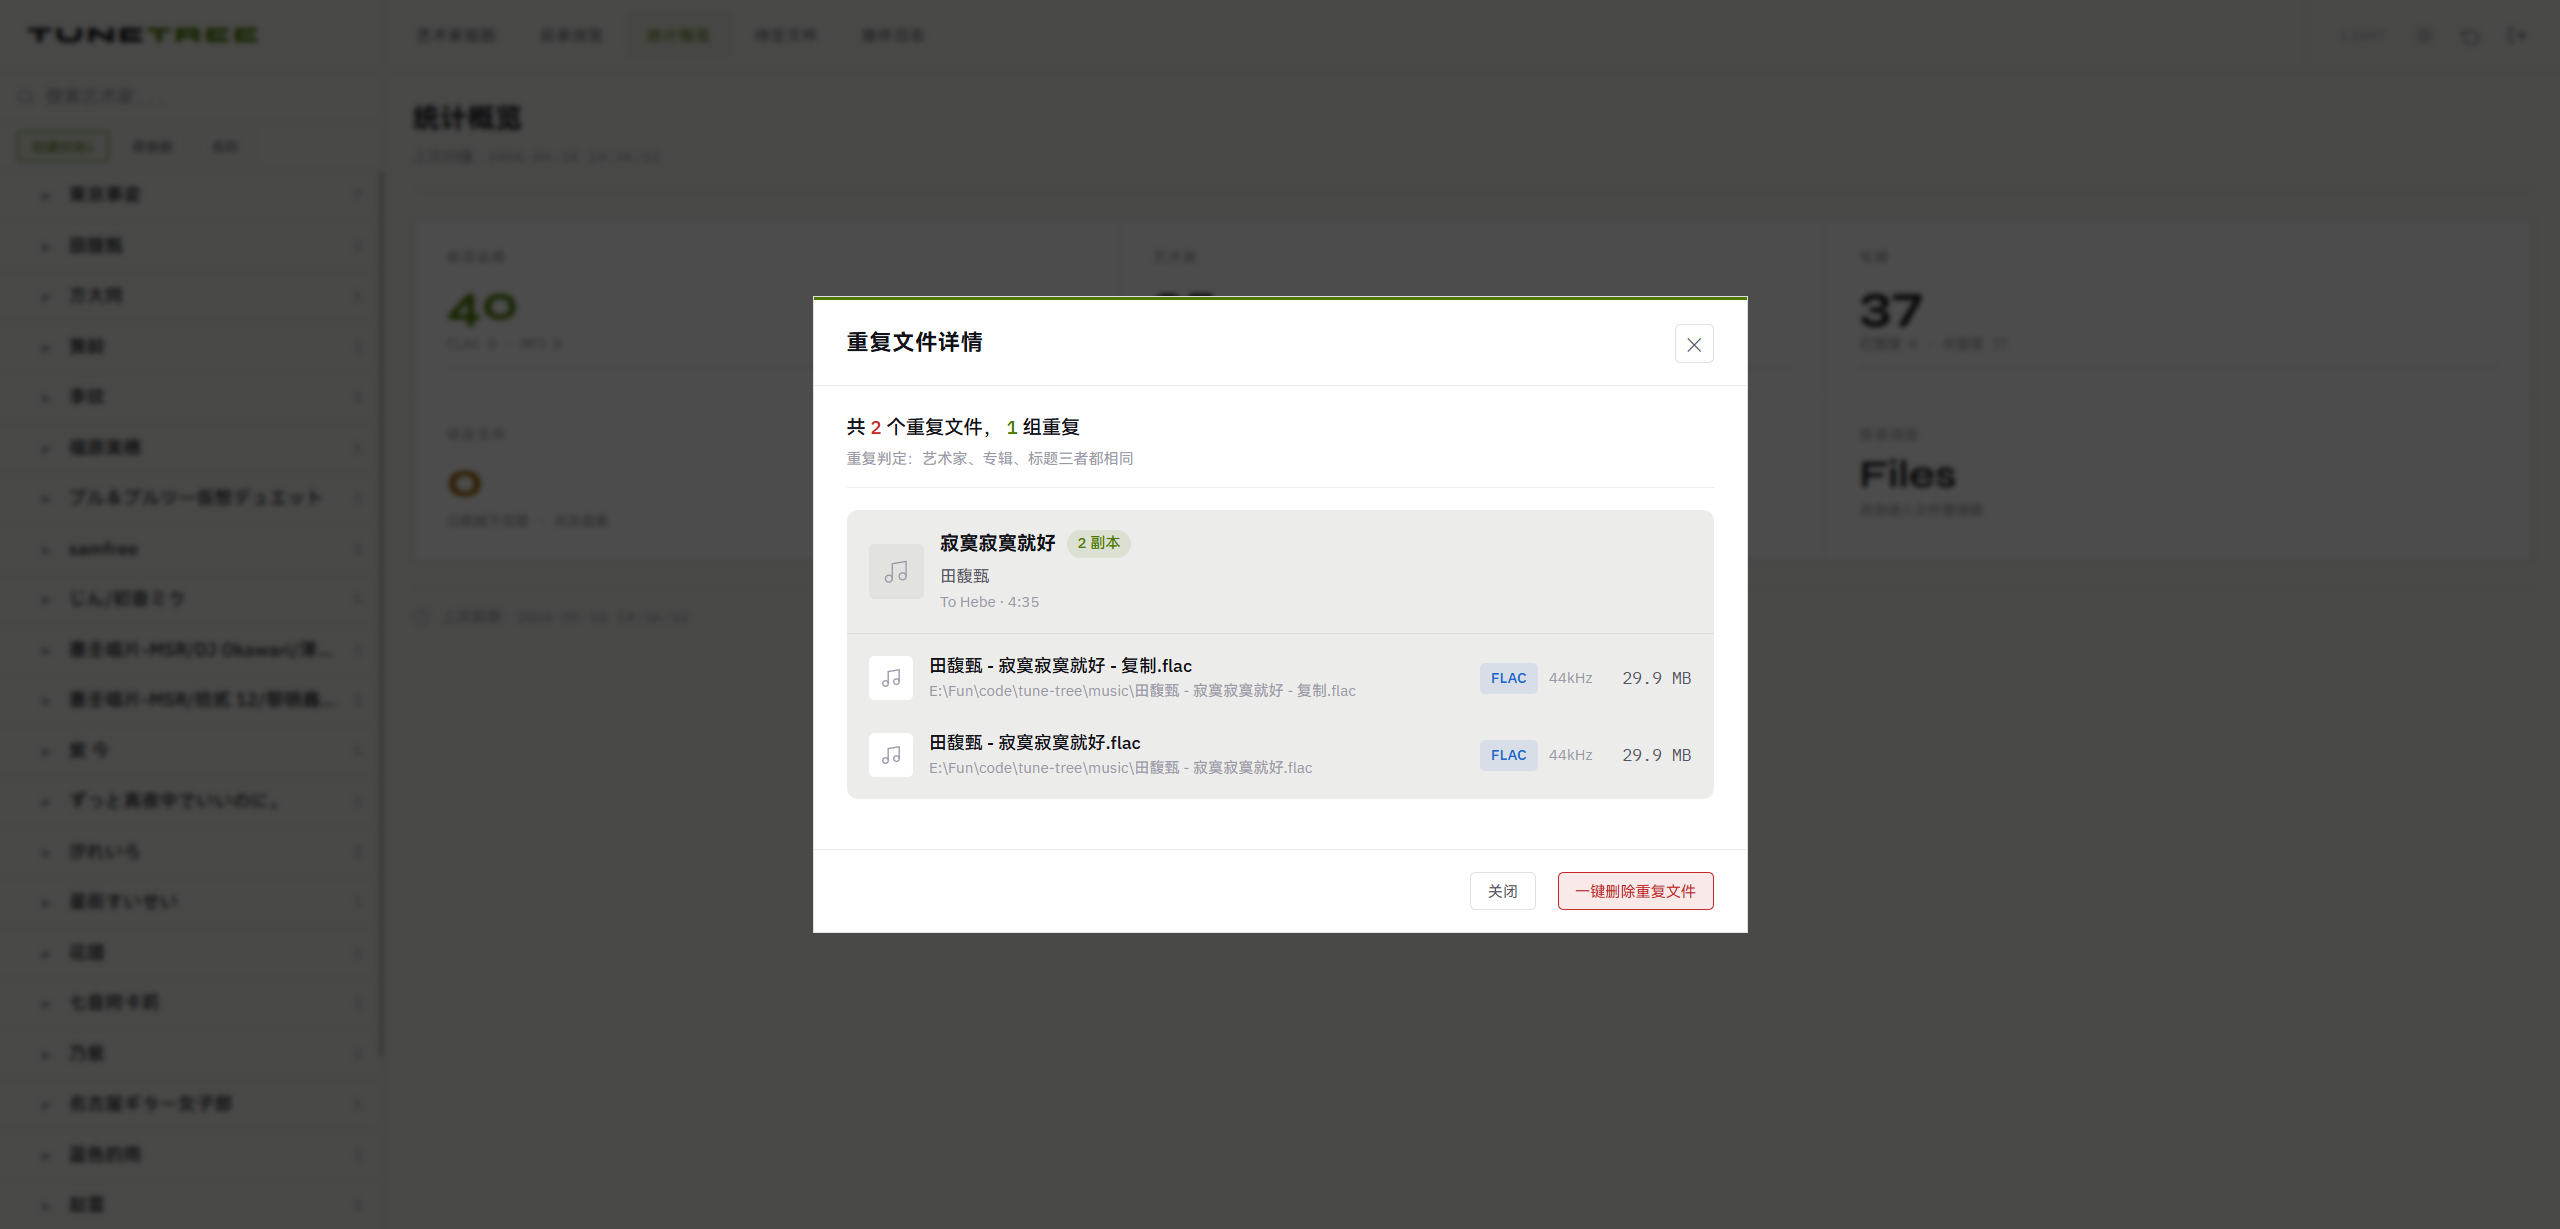
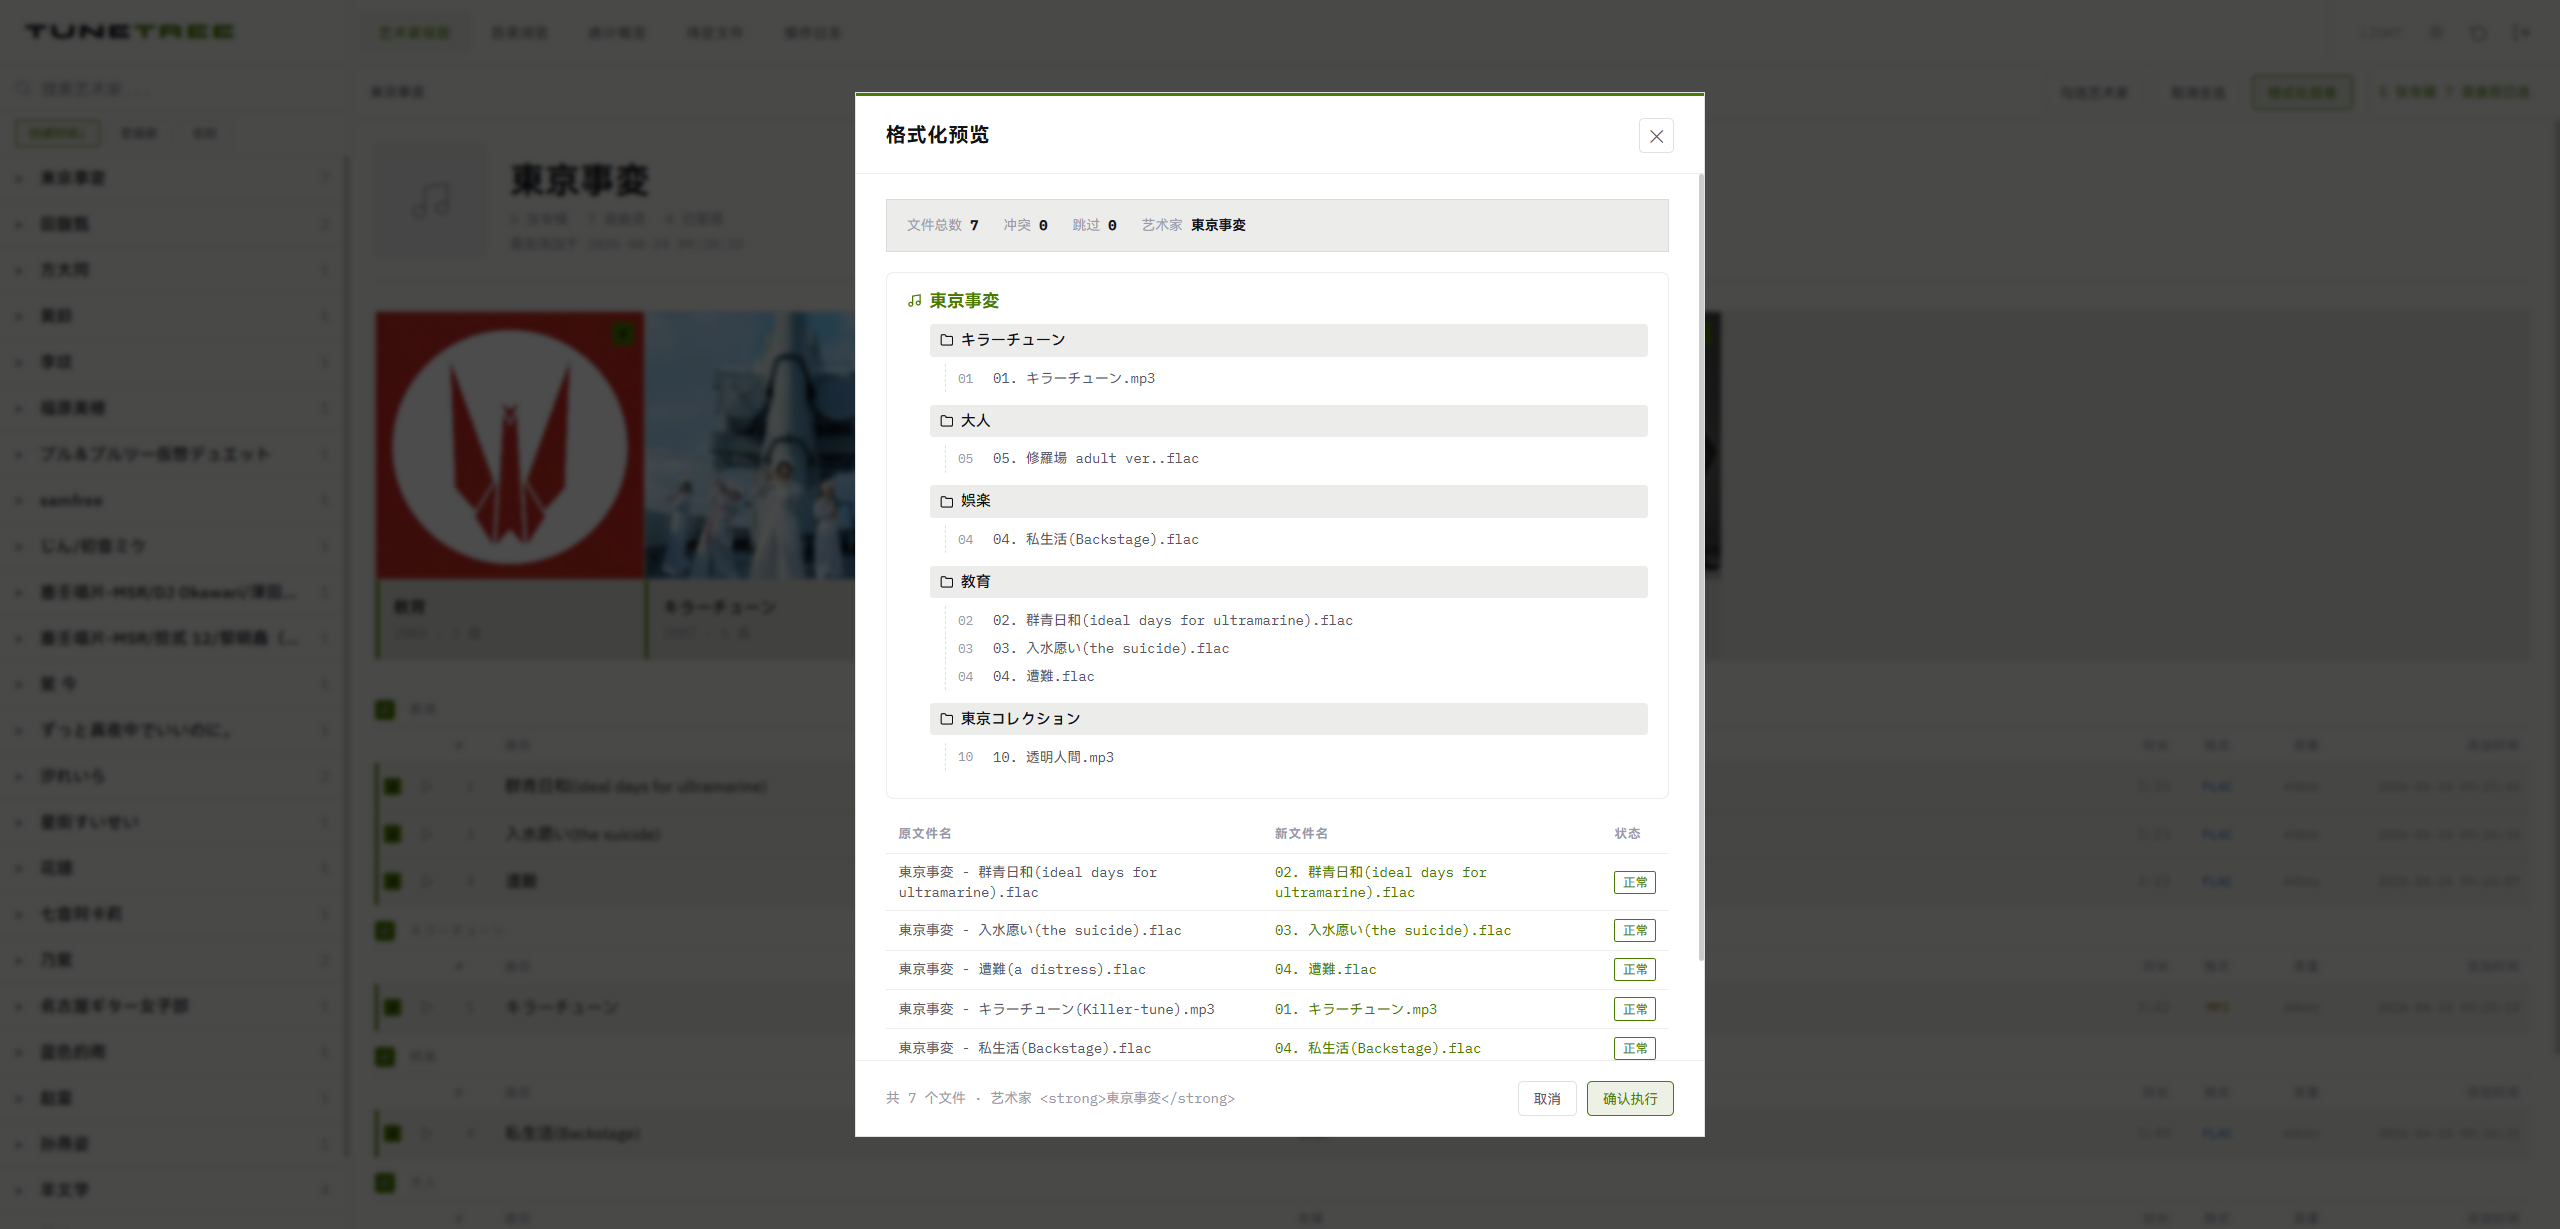
docs: 更新README文档

diff --git a/README.md b/README.md
@@ -41,14 +41,20 @@
 ### 目录浏览
 ![目录浏览](screenshots/image2.png)
 
+### 艺术家多选格式化
+![艺术家多选格式化](screenshots/image3.png)
+
+### 专辑多选可视化
+![专辑多选可视化](screenshots/image4.png)
+
 ### 统计概览
-![统计概览](screenshots/image3.png)
+![统计概览](screenshots/image5.png)
 
 ### 重复文件详情
-![重复文件详情](screenshots/image4.png)
+![重复文件详情](screenshots/image6.png)
 
 ### 夜间模式
-![夜间模式](screenshots/image5.png)
+![夜间模式](screenshots/image7.png)
 
 ## 技术栈
 
